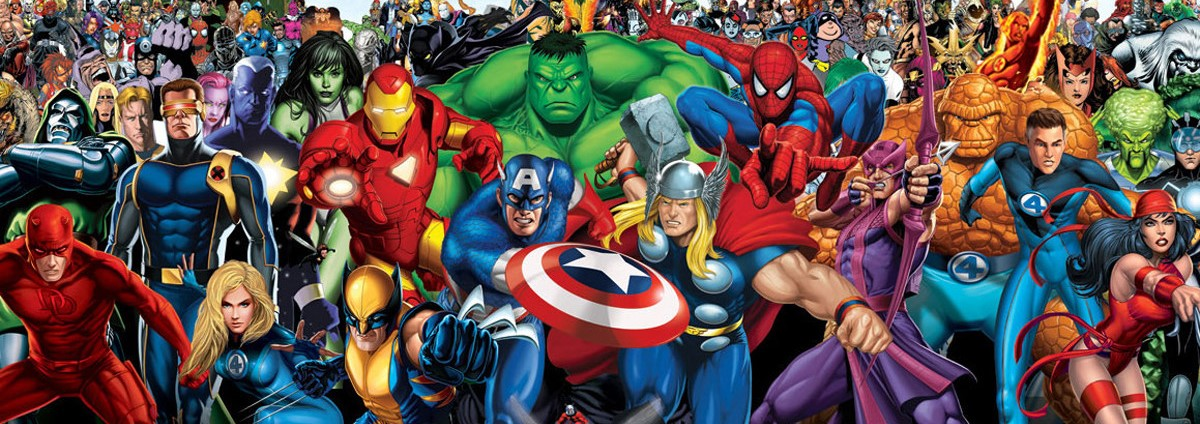
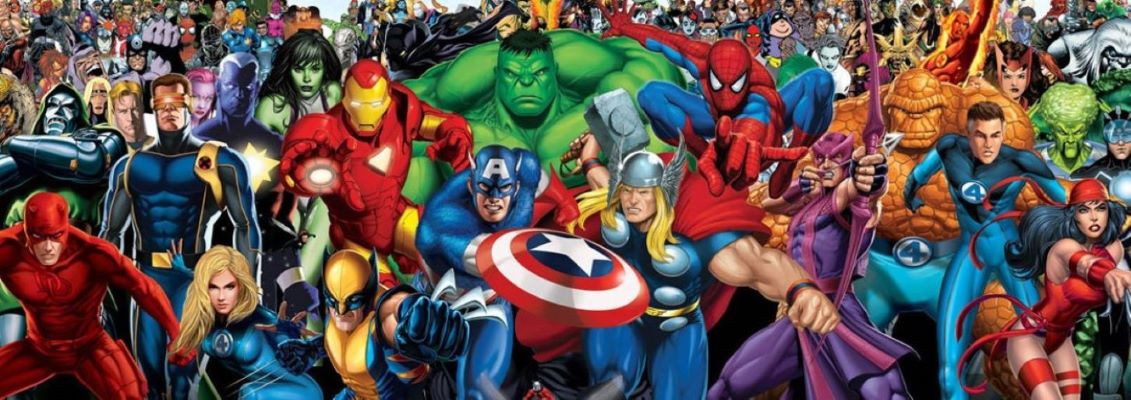
images rounded at the bottom and occupying the whole width

diff --git a/public/bannerv3.html b/public/bannerv3.html
@@ -44,42 +44,42 @@
 
         <ul>
             <li>
-                <img src="./img/starwars_banner.jpg" alt="">
+                <img src="./img/starwars_banner.jpg" alt="" class="img_banner">
                 <div class="txt_banner">
                     <h2>Que la fuerza te acompañe...</h2>
                 </div>
             </li>
 
             <li>
-                <img src="./img/marvel_banner.jpg" alt="">
+                <img src="./img/marvel_banner.jpg" alt="" class="img_banner">
                 <div class="txt_banner">
                     <h2>Marvel...</h2>
                 </div>
             </li>
 
             <li>
-                <img src="./img/pixar_banner.jpeg" alt="">
+                <img src="./img/pixar_banner.jpg" alt="" class="img_banner">
                 <div class="txt_banner">
                     <h2>Pixar...</h2>
                 </div>
             </li>
 
             <li>
-                <img src="./img/lego_banner.jpg" alt="">
+                <img src="./img/lego_banner.jpg" alt="" class="img_banner">
                 <div class="txt_banner">
                     <h2>Lego...</h2>
                 </div>
             </li>
 
             <li>
-                <img src="./img/simpsons_banner.jpg" alt="">
+                <img src="./img/simpsons_banner.jpg" alt="" class="img_banner">
                 <div class="txt_banner">
                     <h2>Simpsons...</h2>
                 </div>
             </li>
 
             <li>
-                <img src="./img/disney_banner.jpg" alt="">
+                <img src="./img/disney_banner.jpg" alt="" class="img_banner">
                 <div class="txt_banner">
                     <h2>Disney...</h2>
                 </div>

diff --git a/src/sass/banner3.scss b/src/sass/banner3.scss
@@ -7,11 +7,13 @@
 .banner_box {
     width: 100%;
     height: auto;
+    margin: 0;
+    overflow: hidden;
 
     ul {
         display: flex;
         padding: 0;
-        width: 400%;
+        width: 600%;
         animation: slide 20s infinite alternate ease-in-out;
 
         li {
@@ -37,7 +39,7 @@
 
     .img_banner {
         width: 100%;
-        border-radius: 100px;
+        border-radius: 0px 0px 80px 80px;
     }
 
 }
@@ -45,15 +47,25 @@
 
 @keyframes slide {
     0% {margin-left: 0; }
-    20% {margin-left: 0; }
+    25% {margin-left: 0; }
 
     25% {margin-left: -100%; }
-    45% {margin-left: -100%; }
+    50% {margin-left: -100%; }
 
     50% {margin-left: -200%; }
-    70% {margin-left: -200%; }
+    75% {margin-left: -200%; }
 
     75% {margin-left: -300%; }
     100% {margin-left: -300%; }
 }
     
+/* @media (max-width:991px) {
+
+    .banner_box {
+        width: 100%;
+    }
+    .txt_banner {
+        top: 50px;
+        padding: 0;
+    } 
+}*/

diff --git a/public/css/styles.css b/public/css/styles.css
@@ -527,11 +527,13 @@ footer p {
 .banner_box {
   width: 100%;
   height: auto;
+  margin: 0;
+  overflow: hidden;
 }
 .banner_box ul {
   display: flex;
   padding: 0;
-  width: 400%;
+  width: 600%;
   animation: slide 20s infinite alternate ease-in-out;
 }
 .banner_box ul li {
@@ -553,26 +555,26 @@ footer p {
 }
 .banner_box .img_banner {
   width: 100%;
-  border-radius: 100px;
+  border-radius: 0px 0px 80px 80px;
 }
 
 @keyframes slide {
   0% {
     margin-left: 0;
   }
-  20% {
+  25% {
     margin-left: 0;
   }
   25% {
     margin-left: -100%;
   }
-  45% {
+  50% {
     margin-left: -100%;
   }
   50% {
     margin-left: -200%;
   }
-  70% {
+  75% {
     margin-left: -200%;
   }
   75% {
@@ -582,5 +584,15 @@ footer p {
     margin-left: -300%;
   }
 }
+/* @media (max-width:991px) {
+
+    .banner_box {
+        width: 100%;
+    }
+    .txt_banner {
+        top: 50px;
+        padding: 0;
+    } 
+}*/
 
 /*# sourceMappingURL=styles.css.map */
